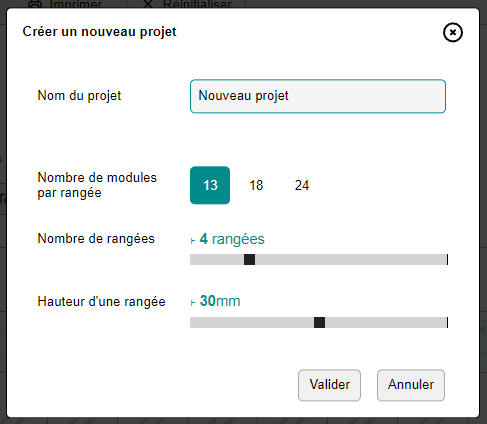
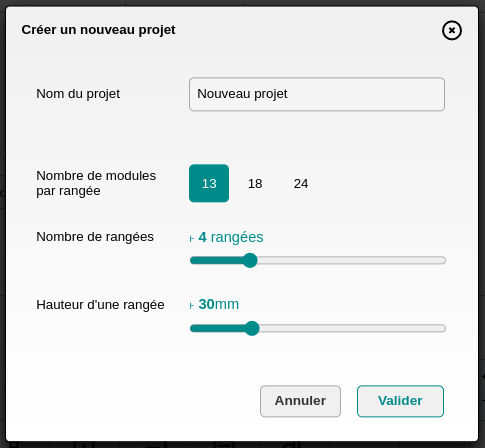
Documentation updated, Editor popup design updated

diff --git a/src/Editor.jsx b/src/Editor.jsx
@@ -3,6 +3,7 @@ import {Fragment, useState} from "react";
 
 import switchboardIcon from './assets/project.svg';
 import schemaIcon from './assets/schema.svg';
+import editIcon from './assets/edit.svg';
 
 import IconSelector from "./IconSelector.jsx";
 import Module from "./Module.jsx";
@@ -10,27 +11,31 @@ import Popup from "./Popup.jsx";
 import SchemaSymbol from "./SchemaSymbol.jsx";
 
 export default function Editor({
-                                  theme,
-                                  switchboard,
-                                  stepSize,
-                                  schemaFunctions,
+                                   theme,
+                                   switchboard,
+                                   stepSize,
+                                   schemaFunctions,
 
-                                  getFilteredModulesBySchemaFuncs,
-                                  getModuleById,
+                                   getFilteredModulesBySchemaFuncs,
+                                   getModuleById,
 
-                                  editor,
-                                  onSetEditor,
+                                   editor,
+                                   onSetEditor,
 
-                                  onApplyModuleEditor,
-                                  onUpdateModuleEditor,
-                                  onHandleModuleClear,
-                              }) {
+                                   onApplyModuleEditor,
+                                   onUpdateModuleEditor,
+                                   onHandleModuleClear,
+                               }) {
     const [editorTab, setEditorTab] = useState("main");
     const prevModule = getModuleById(editor?.prevModule?.parentId);
 
     return editor && (
         <Popup
-            title={"Editer le module"}
+            title={<div className="popup_title_content">
+                <img className="popup_title_content_img" src={editIcon} title="Editer le module" alt="Editer le module"/>
+                <span className="popup_title_content_id">{editor.currentModule.id ?? ""}</span>
+                {editor.currentModule.text ? <span className="popup_title_content_desc">/ {editor.currentModule.text ?? ""}</span> : ""}
+            </div>}
             showCloseButton={true}
             onCancel={() => onSetEditor(null)}
             onOk={() => onApplyModuleEditor()}
@@ -254,12 +259,12 @@ export default function Editor({
 
                         {editor.currentModule.func && (
                             <div style={{display: 'flex', flexDirection: 'column', marginInline: 'auto', marginTop: '2em', alignItems: 'center', width: '100%', maxWidth: '93%', borderBottom: '1px solid lightgray'}}>
-                            <h5 style={{color: 'gray', width: '100%', borderBottom: '1px solid lightgray', margin: 0}}>Démonstration</h5>
-                            <div style={{width: '100px', minWidth: '70px', height: '100px', maxWidth: '100%', overflowX: 'auto', marginBlock: '1em', overflowY: 'hidden'}}>
-                                <SchemaSymbol module={editor.currentModule} schemaFunctions={schemaFunctions} />
+                                <h5 style={{color: 'gray', width: '100%', borderBottom: '1px solid lightgray', margin: 0}}>Démonstration</h5>
+                                <div style={{width: '100px', minWidth: '70px', height: '100px', maxWidth: '100%', overflowX: 'auto', marginBlock: '1em', overflowY: 'hidden'}}>
+                                    <SchemaSymbol module={editor.currentModule} schemaFunctions={schemaFunctions}/>
+                                </div>
                             </div>
-                        </div>
-                            )}
+                        )}
                     </>
                 }
 

diff --git a/src/popup.css b/src/popup.css
@@ -22,7 +22,7 @@
     max-width: 85%;
     max-height: 93%;
     overflow-y: auto;
-    background: linear-gradient(to bottom, #f0f0f0, white);
+    background: linear-gradient(to bottom, white, #f0f0f0);
     border-radius: 5px;
     border: 1px solid black;
     z-index: 9000;
@@ -34,6 +34,32 @@
     font-size: smaller;
     font-weight: bold;
     margin-bottom: 3em;
+}
+
+.popup_title_content {
+    display: flex;
+    flex-direction: row;
+    flex-wrap: nowrap;
+    justify-content: flex-start;
+    align-items: center;
+    gap: 0.5em;
+
+    margin-right: 1em;
+}
+
+.popup_title_content_img {
+}
+
+.popup_title_content_id {
+    text-transform: uppercase;
+}
+
+.popup_title_content_desc {
+}
+
+.popup_title_content img {
+    width: 18px;
+    height: 18px;
 }
 
 .popup_cancel {

diff --git a/README.md b/README.md
@@ -4,11 +4,14 @@ Générateur d'étiquettes pour tableaux / armoires électriques.
 
 ---
 
-https://pantaflex44.github.io/Tiquettes/
 
-<u>Licence</u>: MIT<br />
-<u>Auteur</u>: Christophe LEMOINE <pantaflex (at) hotmail (dot) fr><br />
-<u>Création</u>: 26/05/2024<br />
+[<img alt="URL" src="https://img.shields.io/badge/🠊-https://www.tiquettes.fr-%3CCOLOR%3E?style=for-the-badge&color=darkcyan&labelColor=darkcyan">](https://www.tiquettes.fr)
+
+<img alt="Licence" src="https://img.shields.io/badge/Licence-MIT-%3CCOLOR%3E?style=flat&color=fff">
+<img alt="Création" src="https://img.shields.io/badge/Création-26/05/2024-%3CCOLOR%3E?style=flat&color=fff">
+<img alt="Auteur" src="https://img.shields.io/badge/Auteur-Christophe LEMOINE <pantaflex (at) hotmail (dot) fr>-%3CCOLOR%3E?style=flat&color=fff">
+
+[<img alt="Website Deployed for Free with FTP Deploy Action" src="https://img.shields.io/badge/Website deployed for free with-FTP DEPLOY ACTION-%3CCOLOR%3E?style=social&color=fff&labelColor=fff">](https://github.com/SamKirkland/FTP-Deploy-Action)
 
 ---
 
@@ -221,6 +224,31 @@ Sélectionnez le thème de votre choix puis admirez le style de vos étiquettes 
 
 ![Thème Legrand - Couleur - Tertiaire](docs/_theme_lgd_cter.png)
 
+## Schéma unifilaire
+
+### Edition des caractéristiques
+
+Depuis la version 2.0.0, Tiquettes propose la génération semi-automatique d'un schéma unifilaire représentatif du tableau électrique conçu par vos soins.
+
+La fenètre dédition d'un module possède désormais un nouvel onglet ```Schéma``` permettant de définir les caractèristiques techiniques du module:
+
+![Edition des caractéristiques techniques](docs/_popup_schema.png)
+
+- _Fonction_ : Fonction technique du module: Interrupteur différentiel, Disjoncteur, etc.
+- _Parent_ : Module parent dont dépend le module en cours d'édition. Par exemple, ce disjoncteur dépend d'un module Interrupteur différentiel.
+
+Les autres informations sont dynamiquement adaptées à la fonction choisie précédement.
+
+La zone de démonstration affiche la représentation graphique (Symbole) et les caractéristiques techniques telles qu'elles seront incluses dans le schéma unifilaire global.
+
+### Génération du schéma unifilaire
+
+La génération dépend à 100% des données que vous aurez renseignées lors de l'édition d'un module.
+
+Le schéma généré en temps réel est accessible via l'onglet ```Schéma``` du tableau de bord:
+
+![Schéma unifilaire](docs/_schema.png)
+
 ## Nomenclature / Résumé
 
 Tiquettes vous propose de résumer votre projet.
@@ -228,7 +256,6 @@ Tiquettes vous propose de résumer votre projet.
 La nomenclature est générée automatiquement en fonction des définitions indiquées dans l'éditeur.
 
 ![Nomenclature](docs/_summary.png)
-
 
 ## Immortaliser son travail
 
